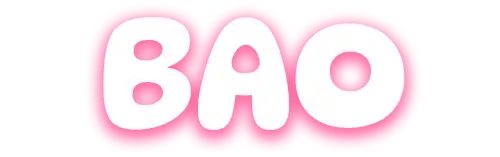
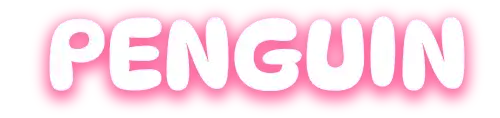
feat: add blackjack assets and pack import
Import a customized .zip pack in a dialog and export a single icon; update penguin en title.

diff --git a/tool.html b/tool.html
@@ -173,6 +173,41 @@
   .btns { display: grid; grid-template-columns: 1fr 1fr; gap: 8px; margin-top: 4px; }
   .btns button { margin-top: 0; }
   .btns button:last-child { grid-column: span 2; }
+
+  /* import dialog */
+  .drop {
+    display: block;
+    margin: 12px 0 0;
+    padding: 14px;
+    border: 1px dashed var(--line);
+    border-radius: 8px;
+    text-align: center;
+    color: var(--muted);
+    font-size: 13px;
+    cursor: pointer;
+  }
+  .drop:hover { border-color: var(--accent); color: var(--text); }
+  .drop input { display: none; }
+  .msg {
+    margin-top: 10px;
+    font: 12px/1.6 ui-monospace, Menlo, monospace;
+    white-space: pre-wrap;
+    color: var(--muted);
+  }
+  .msg .ok { color: #7ddba1; }
+  .msg .warn { color: var(--accent); }
+  .msg .err { color: #ff9a9a; }
+  .spec { margin-top: 16px; font-size: 12px; color: var(--muted); }
+  .spec summary { cursor: pointer; color: var(--accent); }
+  .spec pre {
+    margin: 8px 0;
+    padding: 10px;
+    background: #14121c;
+    border: 1px solid var(--line);
+    border-radius: 6px;
+    overflow-x: auto;
+    color: var(--text);
+  }
 </style>
 </head>
 <body>
@@ -207,6 +242,11 @@
       <label>
         <select id="size"></select>
       </label>
+    </fieldset>
+
+    <fieldset>
+      <legend>Import</legend>
+      <button id="impOpen" class="ghost">Choose pack (.zip)</button>
     </fieldset>
 
     <fieldset>
@@ -261,8 +301,54 @@
   </div>
 </dialog>
 
+<dialog id="imp">
+  <h2>Import asset pack — <em id="impName">no pack loaded</em></h2>
+
+  <div class="tunebody">
+    <div class="preview">
+      <canvas id="impCv"></canvas>
+      <label class="drop" for="impFile">
+        <input type="file" id="impFile" accept=".zip,application/zip">
+        <span>Choose a .zip pack — one at a time</span>
+      </label>
+      <div id="impMsg" class="msg"></div>
+    </div>
+
+    <div class="setup">
+
+      <fieldset>
+        <legend>Lead</legend>
+        <label>Size <span class="val" id="impLeadWv"></span><input type="range" id="impLeadW" min="20" max="140"></label>
+        <label>X <span class="val" id="impLeadXv"></span><input type="range" id="impLeadX" min="0" max="100"></label>
+        <label>Y <span class="val" id="impLeadYv"></span><input type="range" id="impLeadY" min="0" max="100"></label>
+      </fieldset>
+      <fieldset>
+        <legend>Title</legend>
+        <label>Size <span class="val" id="impTitleWv"></span><input type="range" id="impTitleW" min="20" max="140"></label>
+        <label>X <span class="val" id="impTitleXv"></span><input type="range" id="impTitleX" min="0" max="100"></label>
+        <label>Y <span class="val" id="impTitleYv"></span><input type="range" id="impTitleY" min="0" max="100"></label>
+      </fieldset>
+
+      <div class="btns">
+        <button id="impDl" class="ghost">Download this icon</button>
+        <button id="impReset" class="ghost">Reset to default</button>
+        <button id="impClose">Done</button>
+      </div>
+    </div>
+  </div>
+
+  <details class="spec">
+    <summary>Recognized file names</summary>
+    <pre>lead.webp    key art (required)
+cn.webp      localized title — also en.webp / tw.webp</pre>
+    One pack holds one game; its name comes from the .zip filename.
+    Backgrounds come from the built-in list, so packs don't need them.
+    Anything else is ignored, and a single wrapper folder is stripped automatically.
+  </details>
+</dialog>
+
 <script>
-const GAMES = ['baccarat', 'chicken', 'dice', 'flip', 'keno', 'limbo', 'mines', 'penguin', 'plinko', 'wheel'];
+const GAMES = ['baccarat', 'blackjack', 'chicken', 'dice', 'flip', 'keno', 'limbo', 'mines', 'penguin', 'plinko', 'wheel'];
 const LANGS = [
   { code: 'none', label: 'None' },
   { code: 'tw', label: '繁體中文' },
@@ -335,16 +421,15 @@ function drawCover(ctx, cw, ch, img) {
   ctx.drawImage(img, (cw - w) / 2, (ch - h) / 2, w, h);
 }
 
-// 一張完整合成的 icon：背景 → 主視覺 → 標題，縮圖／彈窗／匯出共用這條路徑
-async function drawIcon(cv, game, theme, lang, ratio) {
+// 一張完整合成的 icon：背景 → 主視覺 → 標題。內建素材與匯入包共用這條路徑
+async function drawComposite(cv, srcs, L) {
   const ctx = cv.getContext('2d');
   try {
     const [bg, lead, title] = await Promise.all([
-      loadImage(theme + '.webp'),
-      loadImage(game + '/lead.webp'),
-      lang === 'none' ? null : loadImage(game + '/' + lang + '.webp'),
+      loadImage(srcs.bg),
+      loadImage(srcs.lead),
+      srcs.title ? loadImage(srcs.title) : null,
     ]);
-    const L = layouts[game][ratioOf(ratio)];
     ctx.clearRect(0, 0, cv.width, cv.height);
     drawCover(ctx, cv.width, cv.height, bg);
     drawLayer(ctx, cv.width, cv.height, lead, L.leadW, L.leadX, L.leadY);
@@ -358,6 +443,12 @@ async function drawIcon(cv, game, theme, lang, ratio) {
     throw e;
   }
 }
+
+const drawIcon = (cv, game, theme, lang, ratio) => drawComposite(cv, {
+  bg: theme + '.webp',
+  lead: game + '/lead.webp',
+  title: lang === 'none' ? null : `${game}/${lang}.webp`,
+}, layouts[game][ratioOf(ratio)]);
 
 /* ---------- grid ---------- */
 
@@ -637,6 +728,230 @@ $('selNone').onclick = () => { selected.clear(); buildGrid(); renderAll(); count
 
 ['theme', 'lang', 'size'].forEach(id => $(id).addEventListener('input', renderAll));
 $('lang').addEventListener('input', syncTitleState);
+
+/* ---------- import: 客製化素材包（獨立於 grid，只在彈窗內作業）---------- */
+
+const IMP_KEYS = ['impLeadW', 'impLeadX', 'impLeadY', 'impTitleW', 'impTitleX', 'impTitleY'];
+const BUILTIN_THEMES = [...$('theme').options].map(o => o.value);
+const LANG_FILES = ['cn', 'en', 'tw'];
+
+// 一包一款：assets = { lead, cn, en, tw } 的 blob URL，款名取自 zip 檔名
+const pack = { name: null, game: null, assets: null, urls: [], layouts: {} };
+
+function inflateRaw(bytes) {
+  const stream = new Blob([bytes]).stream().pipeThrough(new DecompressionStream('deflate-raw'));
+  return new Response(stream).arrayBuffer().then(b => new Uint8Array(b));
+}
+
+// 讀 zip：走 central directory，支援 store(0) 與 deflate(8)
+async function readZip(file) {
+  const buf = new Uint8Array(await file.arrayBuffer());
+  if (buf.length < 22 || buf[0] !== 0x50 || buf[1] !== 0x4b) throw new Error('Not a .zip archive');
+  const dv = new DataView(buf.buffer);
+  let eocd = -1;
+  for (let i = buf.length - 22; i >= 0 && i > buf.length - 22 - 65536; i--) {
+    if (dv.getUint32(i, true) === 0x06054b50) { eocd = i; break; }
+  }
+  if (eocd < 0) throw new Error('Damaged .zip — end of central directory not found');
+
+  const count = dv.getUint16(eocd + 10, true);
+  let p = dv.getUint32(eocd + 16, true);
+  const dec = new TextDecoder();
+  const out = [];
+  for (let i = 0; i < count; i++) {
+    if (dv.getUint32(p, true) !== 0x02014b50) break;
+    const method = dv.getUint16(p + 10, true);
+    const csize = dv.getUint32(p + 20, true);
+    const nameLen = dv.getUint16(p + 28, true);
+    const extraLen = dv.getUint16(p + 30, true);
+    const cmtLen = dv.getUint16(p + 32, true);
+    const lho = dv.getUint32(p + 42, true);
+    const name = dec.decode(buf.subarray(p + 46, p + 46 + nameLen));
+    const start = lho + 30 + dv.getUint16(lho + 26, true) + dv.getUint16(lho + 28, true);
+    const raw = buf.subarray(start, start + csize);
+    if (method === 0 || method === 8) {
+      out.push({ name, bytes: method === 8 ? await inflateRaw(raw) : raw });
+    } else {
+      out.push({ name, unsupported: true });
+    }
+    p += 46 + nameLen + extraLen + cmtLen;
+  }
+  return out;
+}
+
+// 只認根層的 lead / cn / en / tw；prefix 用於剝掉單層外殼資料夾
+function classify(entries, prefix) {
+  const assets = {}, ignored = [];
+  for (const e of entries) {
+    if (!e.name.startsWith(prefix)) { ignored.push(e.name); continue; }
+    const rel = e.name.slice(prefix.length);
+    const m = /^(lead|cn|en|tw)\.webp$/i.exec(rel);
+    if (m) assets[m[1].toLowerCase()] = e;
+    else ignored.push(e.name);
+  }
+  return { assets, ignored };
+}
+
+function clearPack() {
+  pack.urls.forEach(u => { cache.delete(u); URL.revokeObjectURL(u); });
+  pack.urls = [];
+  pack.name = pack.game = pack.assets = null;
+  pack.layouts = {};
+}
+
+const impUrl = e => {
+  const u = URL.createObjectURL(new Blob([e.bytes], { type: 'image/webp' }));
+  pack.urls.push(u);
+  return u;
+};
+
+let packMsg = '';
+const impSay = html => { packMsg = html; paintMsg(); };
+// 左欄選的語系若不在包內，動態補一行提示
+function paintMsg() {
+  const l = $('lang').value;
+  const miss = pack.assets && l !== 'none' && !pack.assets[l];
+  $('impMsg').innerHTML = packMsg +
+    (miss ? `\n<span class="warn">⚠ ${langLabel(l)} not in this pack — title skipped</span>` : '');
+}
+
+async function importPack(file) {
+  impSay('Reading ' + file.name + ' …');
+  let entries;
+  try {
+    entries = await readZip(file);
+  } catch (err) {
+    clearPack();
+    refreshImport();
+    return impSay(`<span class="err">${err.message}</span>`);
+  }
+
+  const files = entries.filter(e =>
+    !e.name.endsWith('/') && !e.name.includes('__MACOSX/') && !e.name.endsWith('.DS_Store'));
+  const bad = files.filter(e => e.unsupported).map(e => e.name);
+  const usable = files.filter(e => !e.unsupported);
+
+  // 先照根層找，找不到 lead 就試著剝一層外殼資料夾
+  let res = classify(usable, '');
+  if (!res.assets.lead) {
+    const tops = new Set(usable.map(e => e.name.split('/')[0]));
+    if (tops.size === 1) res = classify(usable, [...tops][0] + '/');
+  }
+
+  if (!res.assets.lead) {
+    clearPack();
+    refreshImport();
+    return impSay(
+      `<span class="err">lead.webp not found — a pack must contain it</span>\n` +
+      `<span class="warn">${files.length} file(s) in archive, none matched the naming rules.</span>\n` +
+      `See “Recognized file names” below.`);
+  }
+
+  clearPack();
+  pack.name = file.name;
+  pack.game = file.name.replace(/\.zip$/i, '').replace(/[^\w-]+/g, '_') || 'pack';
+  pack.assets = { lead: impUrl(res.assets.lead) };
+  LANG_FILES.forEach(l => { if (res.assets[l]) pack.assets[l] = impUrl(res.assets[l]); });
+
+  const found = LANG_FILES.filter(l => pack.assets[l]);
+  const missing = LANG_FILES.filter(l => !pack.assets[l]);
+  packMsg =
+    `<span class="ok">✓ lead.webp</span>\n` +
+    (found.length
+      ? found.map(l => `<span class="ok">✓ ${l}.webp — ${langLabel(l)}</span>`).join('\n')
+      : `<span class="warn">⚠ no title image found</span>`) +
+    (missing.length ? `\n<span class="warn">⚠ missing: ${missing.map(l => l + '.webp').join(' / ')}</span>` : '') +
+    (bad.length ? `\n<span class="err">✗ unsupported compression: ${bad.slice(0, 3).join(', ')}</span>` : '');
+
+  refreshImport();
+}
+
+// pack 換了就更新標題與可用狀態；Background／Language／Size 一律吃左欄設定
+function refreshImport() {
+  $('impName').textContent = pack.name || 'no pack loaded';
+  const has = !!pack.assets;
+  IMP_KEYS.forEach(k => $(k).disabled = !has);
+  $('impDl').disabled = !has;
+  paintMsg();
+  drawImport();
+}
+
+const impLayout = () => {
+  const r = curRatio();
+  if (!pack.layouts[r]) pack.layouts[r] = { ...BASE };
+  return pack.layouts[r];
+};
+
+const impSrcs = () => {
+  const l = $('lang').value;
+  return {
+    bg: $('theme').value + '.webp',
+    lead: pack.assets.lead,
+    title: l === 'none' ? null : (pack.assets[l] || null),
+  };
+};
+
+async function drawImport() {
+  const cv = $('impCv');
+  const { w, h } = dims();
+  cv.width = 600;
+  cv.height = Math.round(600 * h / w);
+  const ctx = cv.getContext('2d');
+  if (!pack.assets) return ctx.clearRect(0, 0, cv.width, cv.height);
+
+  const L = impLayout();
+  IMP_KEYS.forEach(k => {
+    const key = k.slice(3, 4).toLowerCase() + k.slice(4);
+    $(k).value = L[key];
+    $(k + 'v').textContent = L[key] + '%';
+  });
+  try { await drawComposite(cv, impSrcs(), L); } catch (e) { /* 錯誤已畫在畫布上 */ }
+}
+
+IMP_KEYS.forEach(k => $(k).addEventListener('input', () => {
+  const key = k.slice(3, 4).toLowerCase() + k.slice(4);
+  impLayout()[key] = +$(k).value;
+  $(k + 'v').textContent = $(k).value + '%';
+  drawImport();
+}));
+
+$('impOpen').onclick = () => { refreshImport(); $('imp').showModal(); };
+// Done 收工：關閉時把匯入的包一併清掉，下次開啟是乾淨的
+$('impClose').onclick = () => {
+  $('imp').close();
+  clearPack();
+  packMsg = '';
+  refreshImport();
+};
+$('impFile').onchange = e => {
+  const f = e.target.files[0];
+  if (!f) return;
+  if (!/\.zip$/i.test(f.name)) return impSay('<span class="err">Only .zip packs are accepted</span>');
+  importPack(f);
+  e.target.value = '';
+};
+['theme', 'lang', 'size'].forEach(id => $(id).addEventListener('input', () => {
+  if ($('imp').open) { paintMsg(); drawImport(); }
+}));
+
+$('impReset').onclick = () => { Object.assign(impLayout(), BASE); drawImport(); };
+
+$('impDl').onclick = async () => {
+  if (!pack.assets) return;
+  const size = curSize(), l = $('lang').value;
+  const themeName = $('theme').value.replace('bg_', '');
+  const cv = document.createElement('canvas');
+  cv.width = size.w;
+  cv.height = size.h;
+  try {
+    await drawComposite(cv, impSrcs(), impLayout());
+    const blob = await new Promise((res, rej) => cv.toBlob(
+      b => b ? res(b) : rej(new Error('Encode failed')), $('fmt').value, 0.95));
+    saveBlob(blob, `${pack.game}_${themeName}_${l}_${sizeKey(size)}.${ext()}`);
+  } catch (e) {
+    impSay(`<span class="err">${e.message}</span>`);
+  }
+};
 
 buildGrid();
 countJobs();
